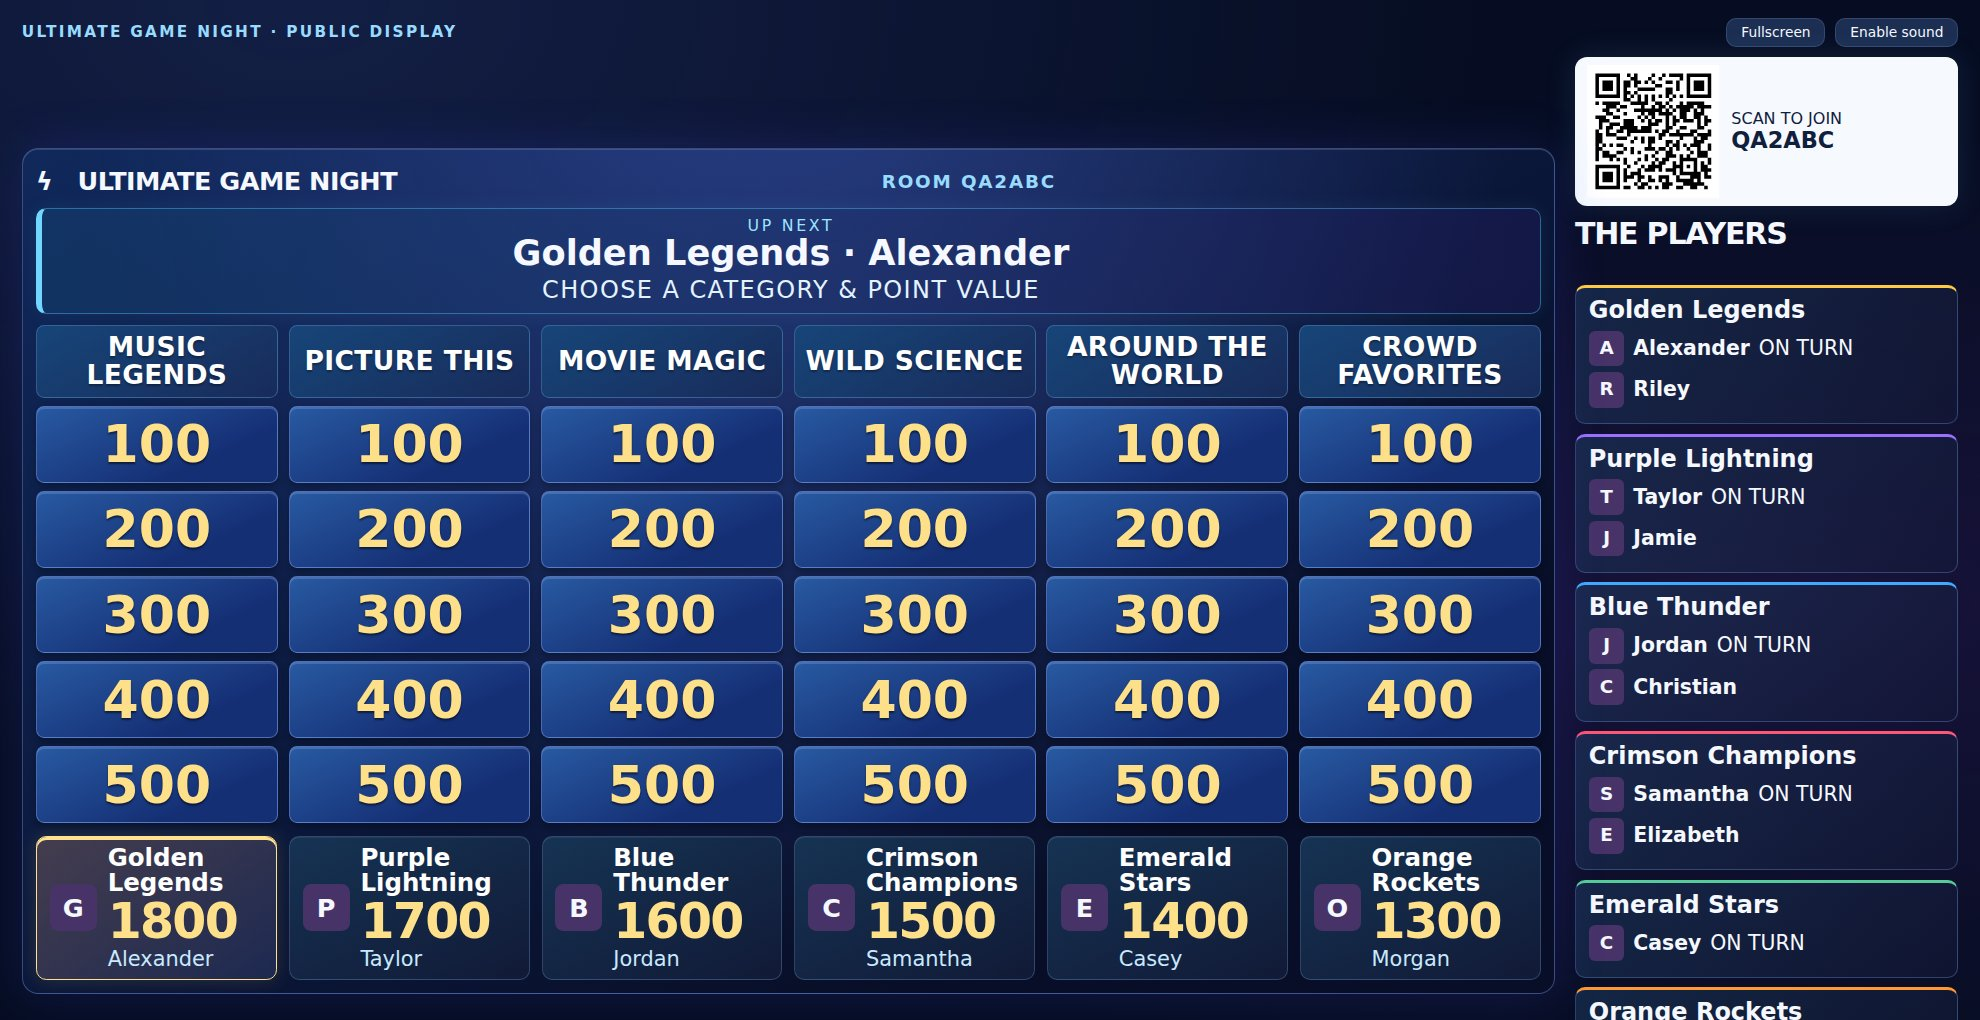
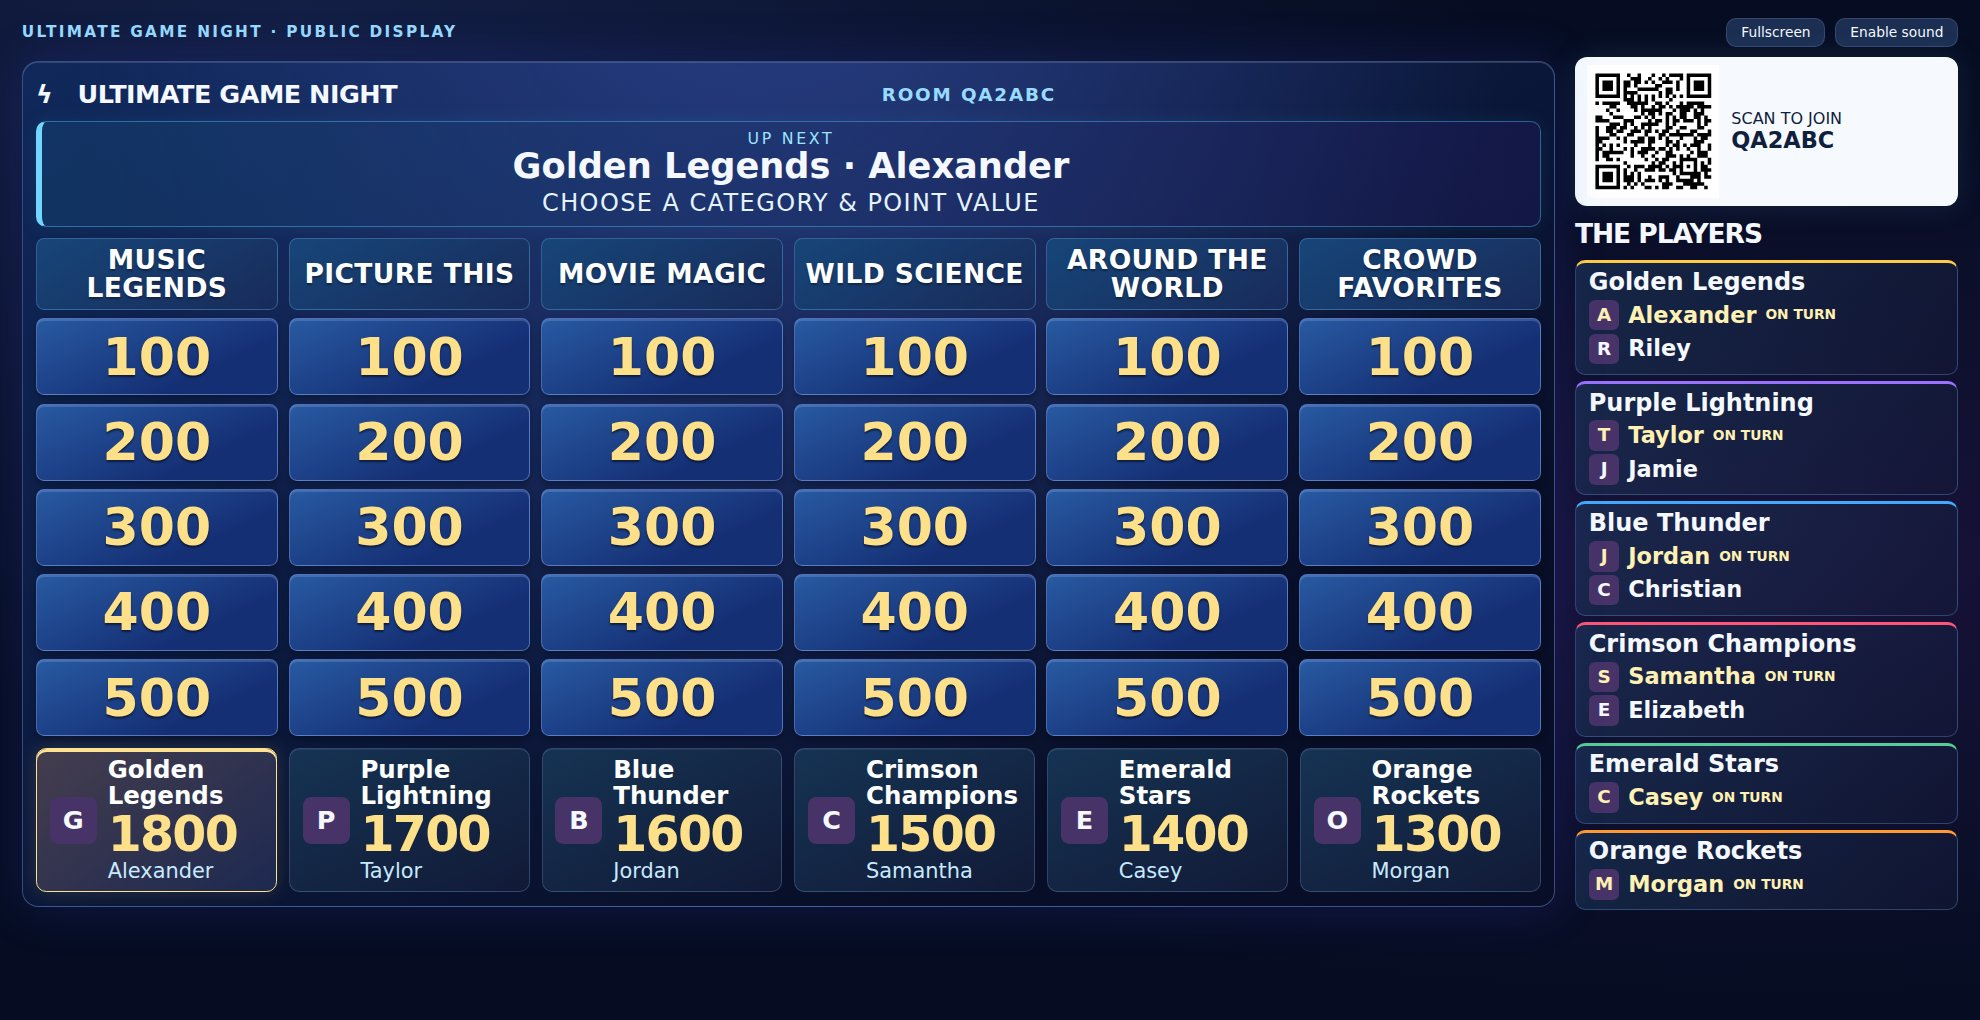
Preserve game-night phone route and save verified screen captures

diff --git a/studio-production-suite/public/game-night-assets/app.js b/studio-production-suite/public/game-night-assets/app.js
@@ -67,7 +67,7 @@ async function pollRemote(){if(mode==='host'){if(room&&!saving)sync();return;}if
 async function action(a,b){const tid=play?.winner||play?.active;switch(a){
 case 'home':case 'games':case 'builder':case 'settings':if(a==='builder'&&room){toast('Disconnect the room before editing this game.');return;}tab=a;render();break;
 case 'dismiss':dismiss();break;
-case 'join':location.href='?mode=player';break;
+case 'join':location.href=location.pathname+'?mode=player';break;
 case 'create':{if(room){toast('Disconnect the room before creating another game.');return;}const name=prompt('Name your game','Our Family Showdown');if(!name)return;game=makeGame(name.slice(0,120));games.push(game);editUndo=[];tab='builder';changed(false);render();break;}
 case 'edit-game':if(room){toast('Disconnect the room before switching games.');return;}game=games.find(g=>g.id===b.dataset.id);tab='builder';editUndo=[];changed(false);render();break;
 case 'details':details();break;
@@ -149,7 +149,7 @@ case 'clue-form':{const {q,final,media}=editing;if(!d.get('question').trim()||!d
 case 'setup-form':{const names=setupTeams.map(t=>t.name.trim().slice(0,28));if(names.length<2||names.length>32||names.some(n=>!n))throw Error('Add 2–32 teams, each with a name');play=newPlay(game,names);play.teams.forEach((t,i)=>t.color=setupTeams[i].color);play.active=play.teams[0].id;room=null;tab='host';dismiss();tone('select');changed(false);render();break;}
 case 'team-form':{const t=play.teams.find(t=>t.id===f.dataset.id),name=d.get('name').trim().slice(0,28);if(!name)throw Error('Enter a name');t.name=name;t.color=d.get('color')||t.color;dismiss();changed();render();break;}
 case 'adjust-form':{const delta=+d.get('delta');if(!Number.isSafeInteger(delta)||Math.abs(delta)>1000000)throw Error('Use whole points between -1000000 and 1000000');const t=play.teams.find(t=>t.id===d.get('team'));t.score+=delta;play.history.push({id:id(),teamId:t.id,delta,reason:d.get('reason'),selected:'manual',phase:'manual'});dismiss();changed();render();break;}
-case 'join-form':{const code=d.get('code').trim().toUpperCase(),name=d.get('name').trim().slice(0,28);if(!/^[A-Z2-9]{6}$/.test(code)||!name)throw Error('Enter the room code and your name');const prior=await read('player-'+code);playerRoom=prior||{code,token:id()+id(),name};playerData=await api('join',playerRoom,{name});await write('player-'+code,playerRoom);history.replaceState(null,'','?mode=player&room='+code);renderPlayer();break;}
+case 'join-form':{const code=d.get('code').trim().toUpperCase(),name=d.get('name').trim().slice(0,28);if(!/^[A-Z2-9]{6}$/.test(code)||!name)throw Error('Enter the room code and your name');const prior=await read('player-'+code);playerRoom=prior||{code,token:id()+id(),name};playerData=await api('join',playerRoom,{name});await write('player-'+code,playerRoom);history.replaceState(null,'',location.pathname+'?mode=player&room='+code);renderPlayer();break;}
 case 'wager-form':{const w=+d.get('wager'),profile=playerData.players.find(p=>p.id===playerData.me),me=playerData.public.teams.find(t=>t.id===(playerData.public.teamMode?profile?.teamId:playerData.me));if(!Number.isInteger(w)||w<0||w>Math.max(0,me?.score||0))throw Error('Wager must fit your available points');playerData=await api('wager',playerRoom,{text:String(w)});toast('Private wager submitted. You can change it until the host locks.');break;}
 case 'answer-form':await api('answer',playerRoom,{text:d.get('answer').trim()});toast('Your answer was sent privately to the host.');break;
 case 'player-profile-form':{const me=playerData.players.find(t=>t.id===playerData.me),name=d.get('name').trim().slice(0,28);if(!name)throw Error('Enter a name');playerData=await api('profile',playerRoom,{name,photo:me.photo});dismiss();renderPlayer();break;}

diff --git a/completed_work.md b/completed_work.md
@@ -166,3 +166,5 @@ Added authenticated /api/game-night/ai readiness and draft generation route usin
 
 ## Ultimate Game Night publication verification
 Applied private game tables/storage and owner isolation migration; closed legacy Edge access for account-owned rooms. Passed production Next build, 14 engine checks, signed-session/media tests, AI draft checks, and live phone/team/rotation/wager privacy integration. Public browser QA passed 16 viewport/phase scenarios across 390×844, 1440×900, 1980×1020 and3840×2160; screenshots recorded. Actual physical55/85-inch viewing distance remains user hardware verification. AI draft backend and reviewed apply UI available; provider generation awaits OPENAI_API_KEY. No paid AI provider calls performed.
+
+Production commit a19133e reached Vercel READY and custom domain. Live checks: host route redirects to login, workspace denies anonymous requests, player/TV routes and game assets return200. Final browser flow includes phone join/team/pick/buzz, host correct/undo, picture crop/save, and all six-team ten-player TV phases without clipping. Fixed history/Join navigation to keep /game-night despite assets base URL. Screenshot fixtures are simulations; physical TVs not available.
